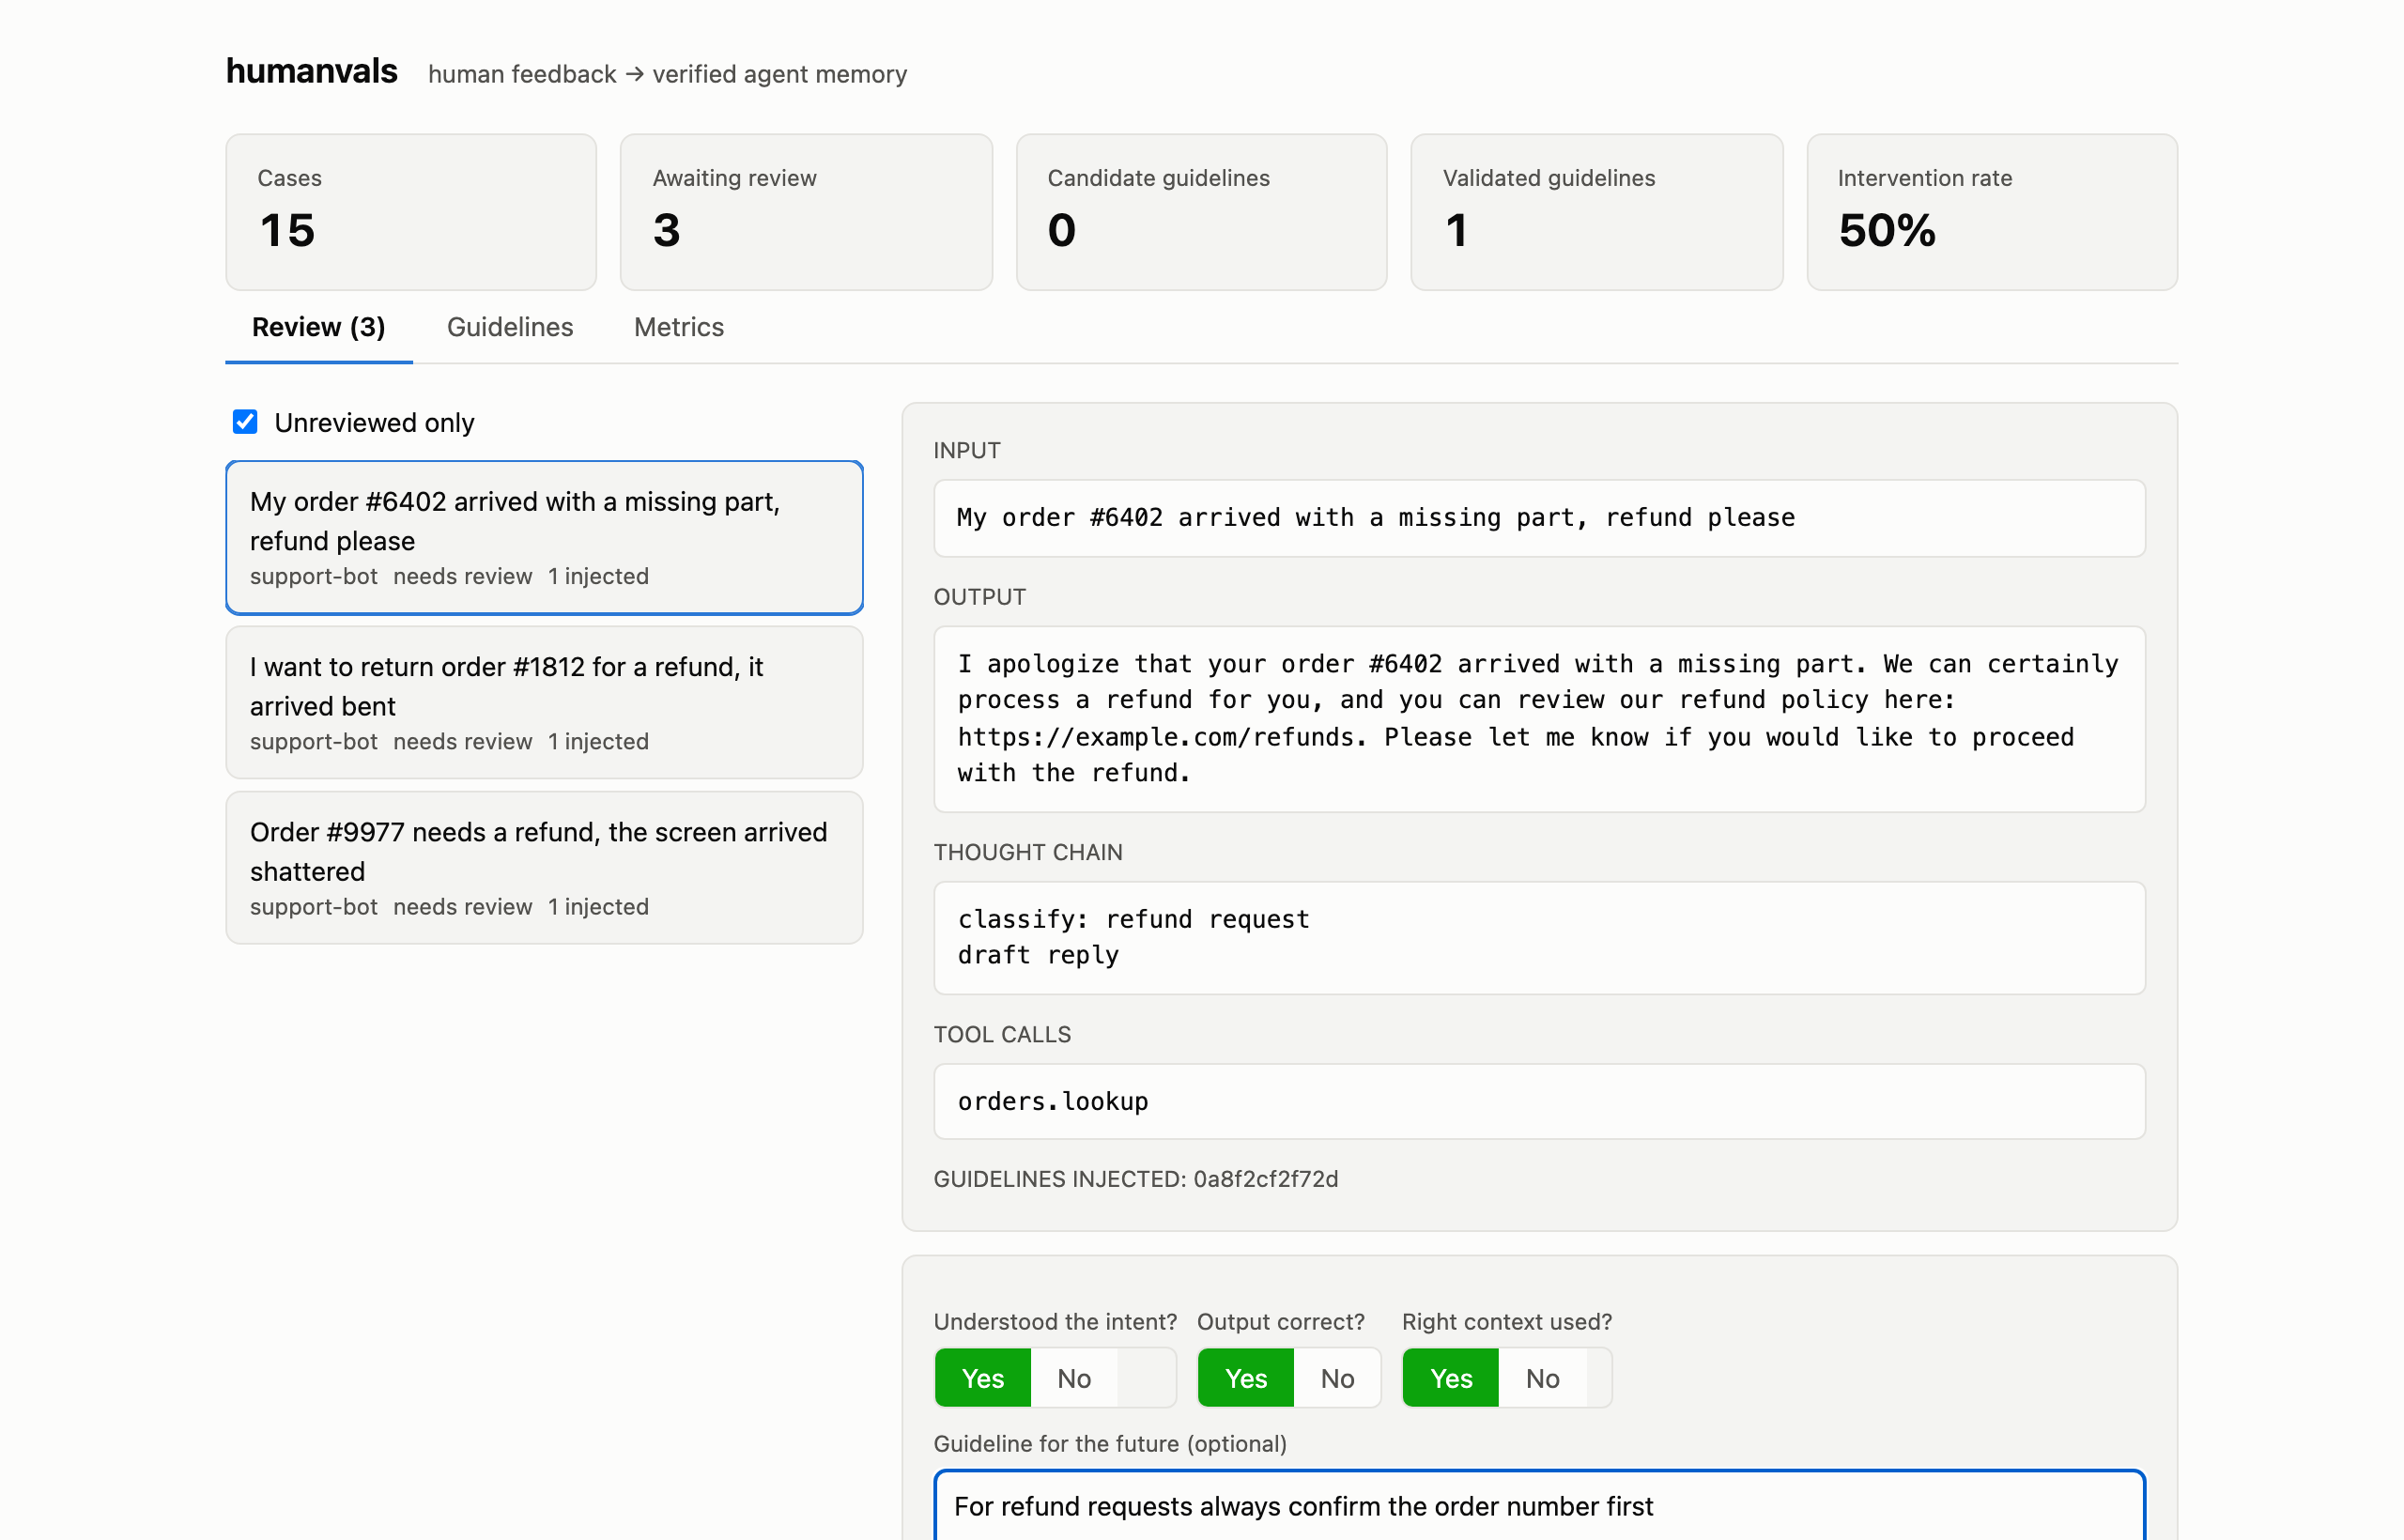
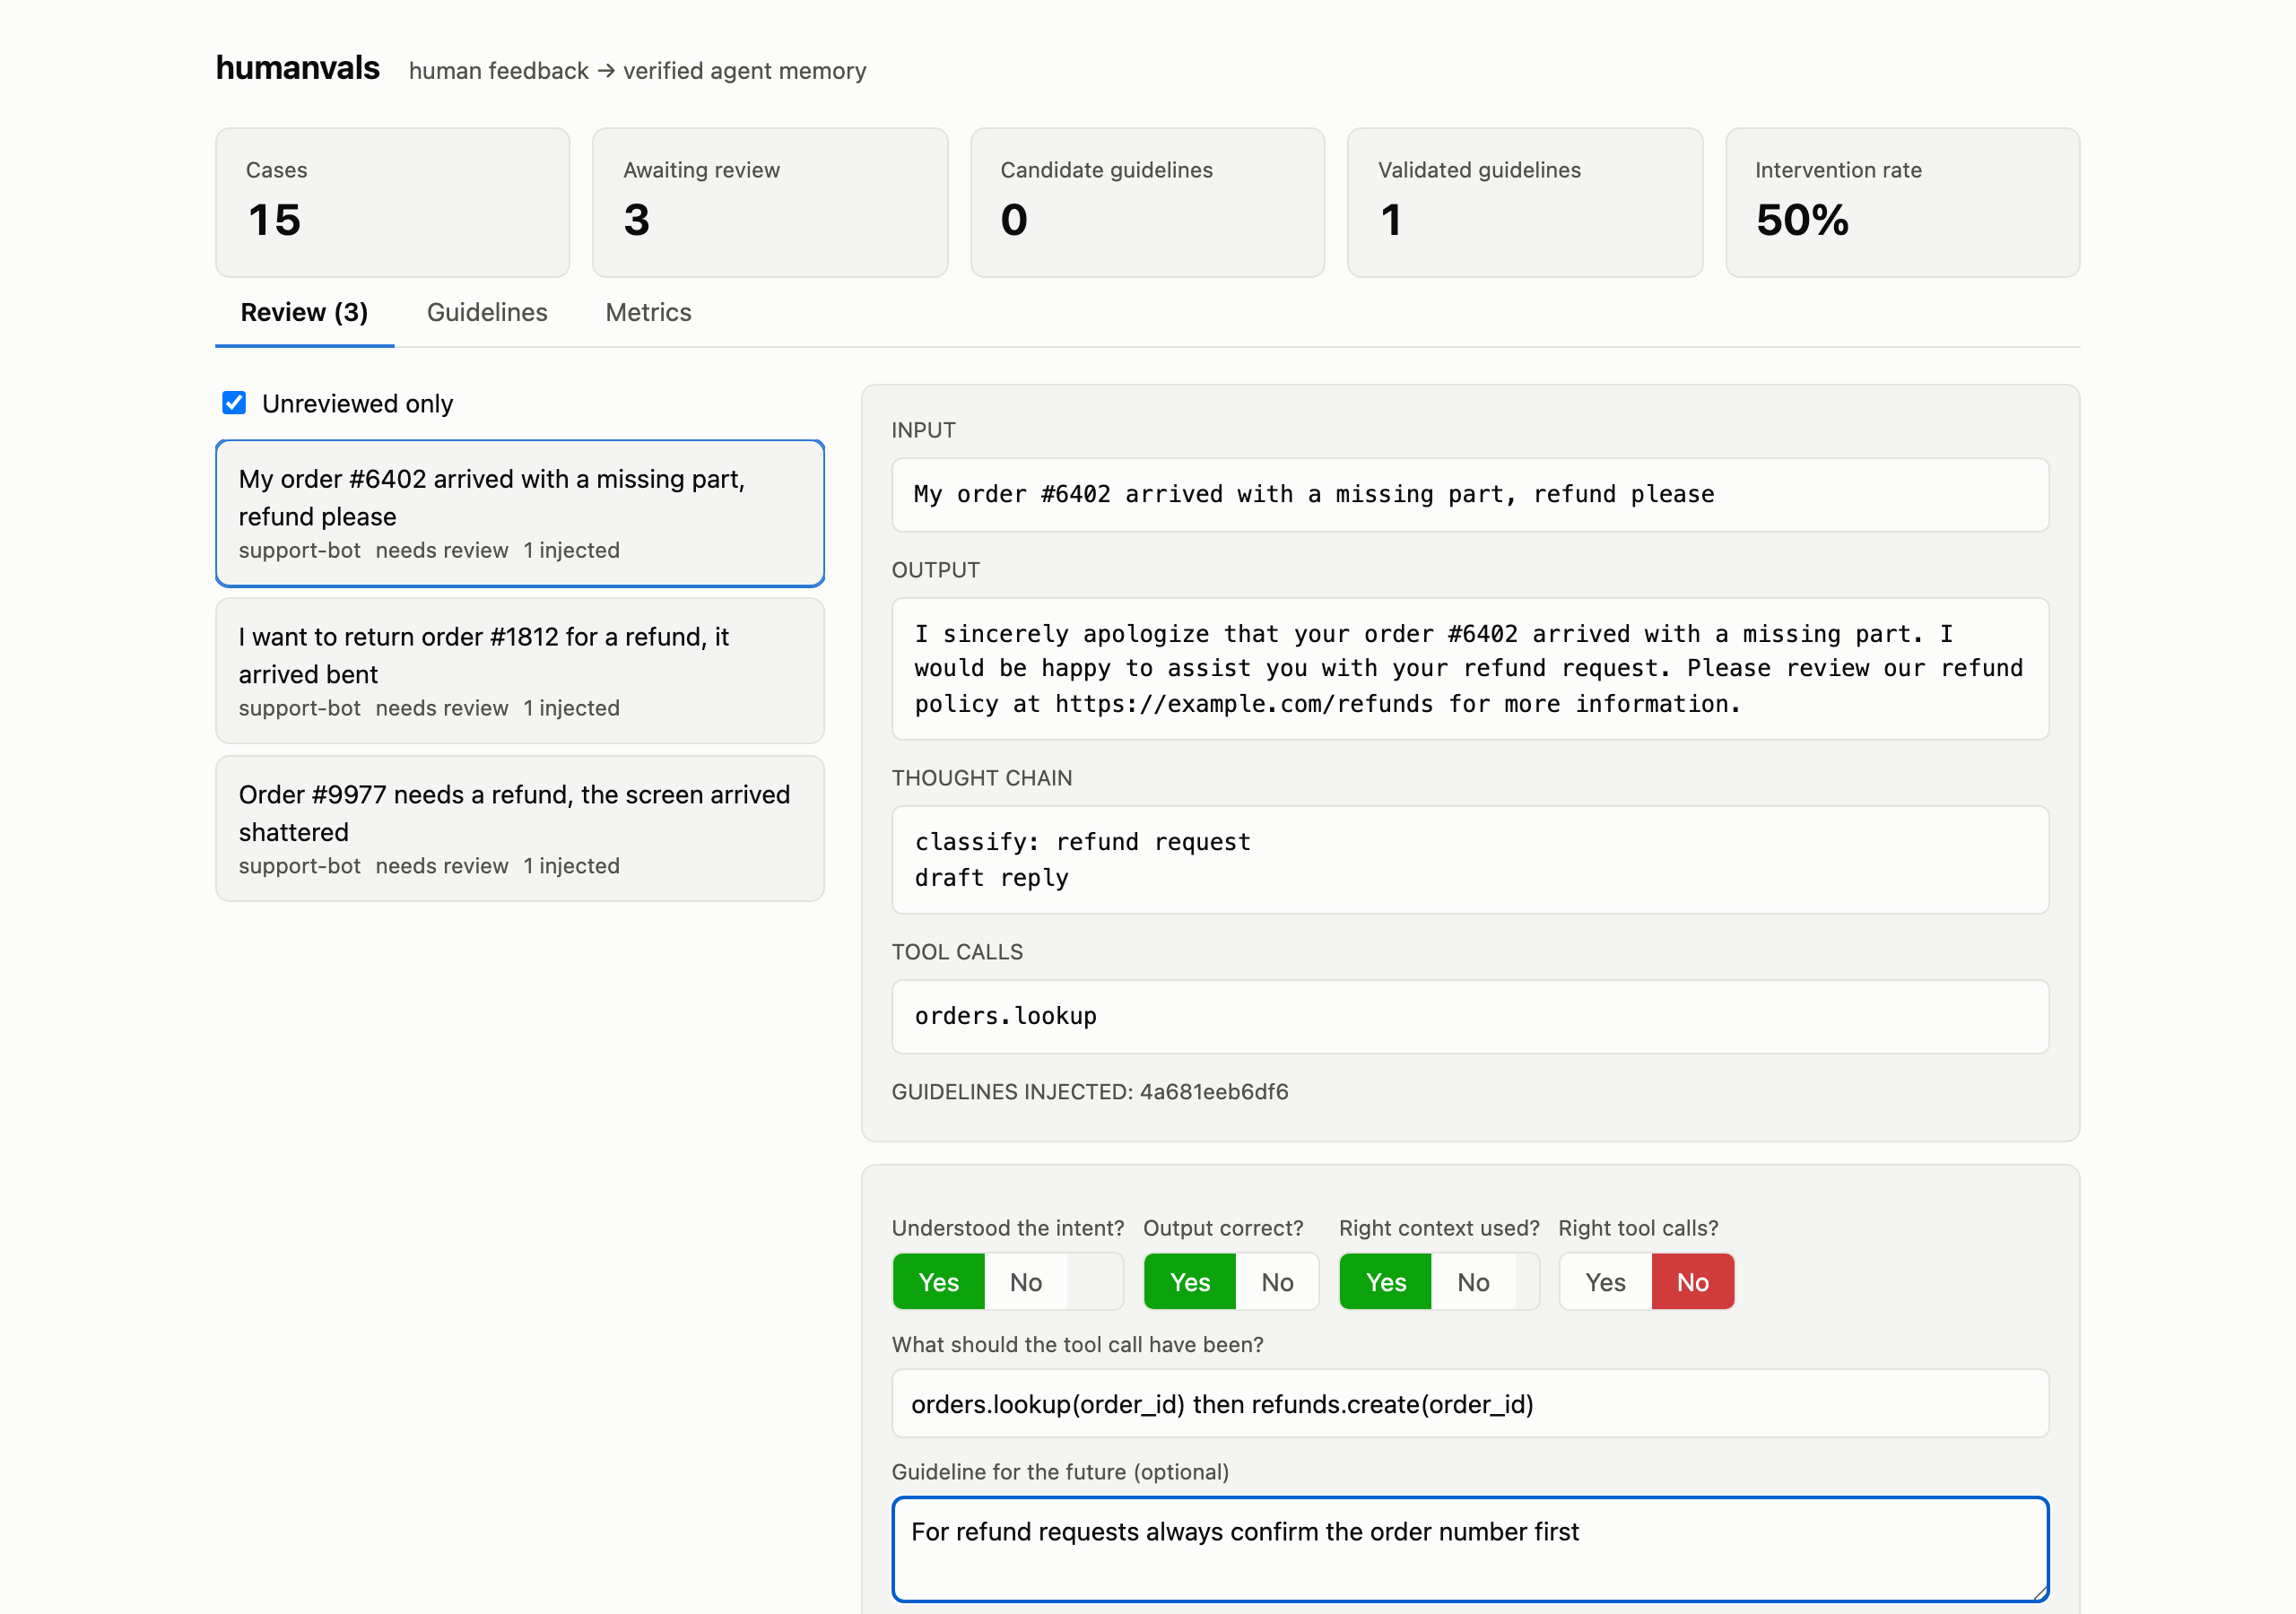
feat: tool-use evaluation dimension with operator correction
Reviewers now answer 'Right tool calls?' alongside intent/output/context; on
No they record expected_tool_call — the concrete call the agent should have
made, judged against the case's tool_calls metadata. Schema v2 with the first
user_version migration (legacy rows default tool_ok=1). output_ok stays the
sole win/loss signal (ADR-0002).

Claude-Session: https://claude.ai/code/session_01MnbEekxqzy424QdTCtAhGb

diff --git a/dashboard/src/components/EvalForm.tsx b/dashboard/src/components/EvalForm.tsx
@@ -5,7 +5,8 @@ import type { EvaluationBody, Guideline } from '../types'
 const DIMENSIONS = [
   ['intent_ok', 'Understood the intent?'],
   ['output_ok', 'Output correct?'],
-  ['context_ok', 'Right context used?']
+  ['context_ok', 'Right context used?'],
+  ['tool_ok', 'Right tool calls?']
 ] as const
 
 type DimKey = (typeof DIMENSIONS)[number][0]
@@ -13,7 +14,8 @@ type Resolution = EvaluationBody['resolution']
 
 export function EvalForm(props: { caseId: string; agent: string; onSubmitted: () => void }) {
   const [dims, setDims] = useState<Record<DimKey, boolean>>(
-    { intent_ok: true, output_ok: true, context_ok: true })
+    { intent_ok: true, output_ok: true, context_ok: true, tool_ok: true })
+  const [expectedTool, setExpectedTool] = useState('')
   const [guideline, setGuideline] = useState('')
   const [appliesWhen, setAppliesWhen] = useState('')
   const [reviewer, setReviewer] = useState('operator')
@@ -36,10 +38,11 @@ export function EvalForm(props: { caseId: string; agent: string; onSubmitted: ()
     setBusy(true); setError('')
     try {
       await api.evaluate(props.caseId, {
-        ...dims, reviewer, notes: '', guideline_text: guideline.trim(),
+        ...dims, expected_tool_call: dims.tool_ok ? '' : expectedTool.trim(),
+        reviewer, notes: '', guideline_text: guideline.trim(),
         applies_when: appliesWhen.trim(), resolution, target_guideline_id: target
       })
-      setGuideline(''); setAppliesWhen('')
+      setGuideline(''); setAppliesWhen(''); setExpectedTool('')
       props.onSubmitted()
     } catch (e) {
       setError(e instanceof Error ? e.message : String(e))
@@ -63,6 +66,14 @@ export function EvalForm(props: { caseId: string; agent: string; onSubmitted: ()
           </div>
         ))}
       </div>
+      {!dims.tool_ok && (
+        <>
+          <label className="field">What should the tool call have been?</label>
+          <input type="text" value={expectedTool}
+            placeholder="e.g. orders.lookup(order_id) before replying"
+            onChange={e => setExpectedTool(e.target.value)} />
+        </>
+      )}
       <label className="field">Guideline for the future (optional)</label>
       <textarea value={guideline} placeholder="How should the agent handle this next time?"
         onChange={e => setGuideline(e.target.value)} />

diff --git a/dashboard/src/components/__tests__/components.test.tsx b/dashboard/src/components/__tests__/components.test.tsx
@@ -21,13 +21,23 @@ describe('SummaryTiles', () => {
 })
 
 describe('EvalForm', () => {
-  it('renders the four evaluation dimensions', () => {
+  it('renders the evaluation dimensions and guideline field', () => {
     render(<EvalForm caseId="c1" agent="bot" onSubmitted={() => {}} />)
     expect(screen.getByText('Understood the intent?')).toBeInTheDocument()
     expect(screen.getByText('Output correct?')).toBeInTheDocument()
     expect(screen.getByText('Right context used?')).toBeInTheDocument()
+    expect(screen.getByText('Right tool calls?')).toBeInTheDocument()
     expect(screen.getByText('Guideline for the future (optional)')).toBeInTheDocument()
     expect(screen.getByText('Submit evaluation')).toBeInTheDocument()
+  })
+
+  it('asks for the correct tool call only when tool dimension is No', async () => {
+    const { fireEvent } = await import('@testing-library/react')
+    render(<EvalForm caseId="c1" agent="bot" onSubmitted={() => {}} />)
+    expect(screen.queryByText('What should the tool call have been?')).toBeNull()
+    const toolSeg = screen.getByText('Right tool calls?').parentElement!
+    fireEvent.click(toolSeg.querySelectorAll('button')[1])
+    expect(screen.getByText('What should the tool call have been?')).toBeInTheDocument()
   })
 })
 

diff --git a/dashboard/src/types.ts b/dashboard/src/types.ts
@@ -45,6 +45,8 @@ export interface EvaluationBody {
   intent_ok: boolean
   output_ok: boolean
   context_ok: boolean
+  tool_ok: boolean
+  expected_tool_call: string
   reviewer: string
   notes: string
   guideline_text: string

diff --git a/tests/test_store.py b/tests/test_store.py
@@ -28,3 +28,37 @@ def test_memory_db_isolated_instances() -> None:
     hv2 = HumanVals(':memory:')
     add_guideline(hv1, 'refund my order', 'rule')
     assert hv2.list_guidelines() == []
+
+
+def test_migration_from_v1_schema(tmp_path: Path) -> None:
+    """A v1 database (no tool dimension) opens cleanly and gains the columns."""
+    import sqlite3
+
+    db = str(tmp_path / 'old.db')
+    conn = sqlite3.connect(db)
+    conn.executescript(
+        'CREATE TABLE cases (id TEXT PRIMARY KEY, agent TEXT, namespace TEXT,'
+        ' input TEXT, output TEXT, metadata TEXT, guidelines_injected TEXT,'
+        ' created_at REAL, reviewed INTEGER DEFAULT 0);'
+        'CREATE TABLE evaluations (id TEXT PRIMARY KEY, case_id TEXT,'
+        ' intent_ok INTEGER, output_ok INTEGER, context_ok INTEGER, notes TEXT,'
+        ' guideline_text TEXT, applies_when TEXT, reviewer TEXT, created_at REAL);'
+        'CREATE TABLE guidelines (id TEXT PRIMARY KEY, agent TEXT, namespace TEXT,'
+        ' intent_text TEXT, intent_vec TEXT, text TEXT, applies_when TEXT,'
+        ' origin TEXT, status TEXT, exposures INTEGER DEFAULT 0,'
+        ' wins INTEGER DEFAULT 0, validation_count INTEGER DEFAULT 0,'
+        ' superseded_by TEXT, source_case_id TEXT, created_at REAL, promoted_at REAL);'
+        'CREATE TABLE exposure_credits (case_id TEXT, guideline_id TEXT,'
+        ' PRIMARY KEY (case_id, guideline_id));'
+        "INSERT INTO cases VALUES ('c1','bot','default','in','out','{}','[]',0.0,1);"
+        "INSERT INTO evaluations VALUES ('e1','c1',1,0,1,'','','','ali',0.0);"
+    )
+    conn.execute('PRAGMA user_version=1')
+    conn.commit()
+    conn.close()
+
+    hv = HumanVals(db)  # must migrate, not crash
+    row = hv.store.list_evaluations()[0]
+    assert row['tool_ok'] == 1  # legacy rows default to 'no tool problem'
+    assert row['expected_tool_call'] == ''
+    assert hv.store.conn.execute('PRAGMA user_version').fetchone()[0] >= 2

diff --git a/src/humanvals/store.py b/src/humanvals/store.py
@@ -16,7 +16,8 @@ CREATE TABLE IF NOT EXISTS cases (
   metadata TEXT, guidelines_injected TEXT, created_at REAL, reviewed INTEGER DEFAULT 0);
 CREATE TABLE IF NOT EXISTS evaluations (
   id TEXT PRIMARY KEY, case_id TEXT, intent_ok INTEGER, output_ok INTEGER,
-  context_ok INTEGER, notes TEXT, guideline_text TEXT, applies_when TEXT,
+  context_ok INTEGER, tool_ok INTEGER DEFAULT 1, expected_tool_call TEXT DEFAULT '',
+  notes TEXT, guideline_text TEXT, applies_when TEXT,
   reviewer TEXT, created_at REAL);
 CREATE TABLE IF NOT EXISTS guidelines (
   id TEXT PRIMARY KEY, agent TEXT, namespace TEXT, intent_text TEXT, intent_vec TEXT,
@@ -28,7 +29,13 @@ CREATE TABLE IF NOT EXISTS exposure_credits (
 """
 
 
-SCHEMA_VERSION = 1
+SCHEMA_VERSION = 2
+
+# version-gated ALTERs applied to databases created by older releases
+_MIGRATIONS: dict[int, list[str]] = {
+    2: ["ALTER TABLE evaluations ADD COLUMN tool_ok INTEGER DEFAULT 1",
+        "ALTER TABLE evaluations ADD COLUMN expected_tool_call TEXT DEFAULT ''"],
+}
 
 
 class SQLiteStore:
@@ -37,8 +44,21 @@ class SQLiteStore:
         self.conn.row_factory = sqlite3.Row
         self.conn.execute('PRAGMA journal_mode=WAL')
         self.conn.execute('PRAGMA busy_timeout=5000')
+        self._migrate()
         self.conn.executescript(_SCHEMA)
         self.conn.execute(f'PRAGMA user_version={SCHEMA_VERSION}')
+
+    def _migrate(self) -> None:
+        version: int = self.conn.execute('PRAGMA user_version').fetchone()[0]
+        has_tables = self.conn.execute(
+            "SELECT 1 FROM sqlite_master WHERE name='evaluations'").fetchone()
+        if version == 0 or not has_tables:
+            return  # fresh database: _SCHEMA creates everything current
+        for target in sorted(_MIGRATIONS):
+            if version < target:
+                for stmt in _MIGRATIONS[target]:
+                    self.conn.execute(stmt)
+        self.conn.commit()
 
     # -- cases ---------------------------------------------------------------
 
@@ -78,11 +98,18 @@ class SQLiteStore:
     def add_evaluation(self, ev: Evaluation) -> str:
         eid = new_id()
         self.conn.execute(
-            'INSERT INTO evaluations VALUES (?,?,?,?,?,?,?,?,?,?)',
+            'INSERT INTO evaluations (id, case_id, intent_ok, output_ok, context_ok,'
+            ' tool_ok, expected_tool_call, notes, guideline_text, applies_when,'
+            ' reviewer, created_at) VALUES (?,?,?,?,?,?,?,?,?,?,?,?)',
             (eid, ev.case_id, int(ev.intent_ok), int(ev.output_ok), int(ev.context_ok),
+             int(ev.tool_ok), ev.expected_tool_call,
              ev.notes, ev.guideline_text, ev.applies_when, ev.reviewer, time.time()))
         self.conn.commit()
         return eid
+
+    def list_case_evaluations(self, case_id: str) -> list[sqlite3.Row]:
+        return list(self.conn.execute(
+            'SELECT * FROM evaluations WHERE case_id=? ORDER BY rowid', (case_id,)))
 
     def list_evaluations(self, agent: str | None = None) -> list[sqlite3.Row]:
         sql = ('SELECT e.* FROM evaluations e JOIN cases c ON c.id = e.case_id')

diff --git a/tests/test_client.py b/tests/test_client.py
@@ -57,6 +57,29 @@ def test_evaluate_without_guideline_creates_none(hv: HumanVals) -> None:
     assert hv.list_guidelines() == []
 
 
+def test_evaluate_tool_dimension_roundtrip(hv: HumanVals) -> None:
+    case_id = hv.record_case(agent='bot', input='refund order 5', output='done',
+                             metadata={'tool_calls': [{'name': 'orders.delete'}]})
+    hv.evaluate(
+        Evaluation(case_id=case_id, intent_ok=True, output_ok=False, context_ok=True,
+                   tool_ok=False,
+                   expected_tool_call='orders.lookup(order_id) then refunds.create',
+                   reviewer='ali')
+    )
+    row = hv.store.list_evaluations()[0]
+    assert row['tool_ok'] == 0
+    assert row['expected_tool_call'] == 'orders.lookup(order_id) then refunds.create'
+
+
+def test_tool_ok_defaults_true(hv: HumanVals) -> None:
+    case_id = hv.record_case(agent='bot', input='x', output='y')
+    hv.evaluate(Evaluation(case_id=case_id, intent_ok=True, output_ok=True,
+                           context_ok=True, reviewer='ali'))
+    row = hv.store.list_evaluations()[0]
+    assert row['tool_ok'] == 1
+    assert row['expected_tool_call'] == ''
+
+
 def test_list_cases_unreviewed_only(hv: HumanVals) -> None:
     a = hv.record_case(agent='bot', input='a', output='1')
     hv.record_case(agent='bot', input='b', output='2')

diff --git a/tests/test_server.py b/tests/test_server.py
@@ -21,6 +21,7 @@ def seed_case(client: TestClient, text: str = 'refund my order please') -> str:
 
 def evaluate(client: TestClient, case_id: str, **overrides: object) -> dict:  # type: ignore[type-arg]
     body: dict = {'intent_ok': True, 'output_ok': False, 'context_ok': True,  # type: ignore[type-arg]
+                  'tool_ok': True, 'expected_tool_call': '',
                   'reviewer': 'ali', 'guideline_text': 'Link the refund policy',
                   'applies_when': '', 'resolution': 'add'}
     body.update(overrides)
@@ -87,6 +88,16 @@ def test_guideline_retrieval_endpoint(client: TestClient) -> None:
     assert r.status_code == 200
     assert len(r.json()['guidelines']) == 1
     assert 'prompt' in r.json()
+
+
+def test_evaluate_with_tool_correction(client: TestClient) -> None:
+    case_id = seed_case(client)
+    evaluate(client, case_id, tool_ok=False,
+             expected_tool_call='orders.lookup(order_id) first')
+    r = client.get(f'/api/cases/{case_id}/evaluations')
+    assert r.status_code == 200
+    assert r.json()[0]['tool_ok'] is False
+    assert r.json()[0]['expected_tool_call'] == 'orders.lookup(order_id) first'
 
 
 def test_promotions_endpoint(client: TestClient) -> None:

diff --git a/src/humanvals/server/app.py b/src/humanvals/server/app.py
@@ -54,6 +54,8 @@ def _register_routes(app: FastAPI, hv: HumanVals) -> None:  # noqa: C901
     def evaluate(case_id: str, body: EvaluationIn) -> dict[str, Any]:
         ev = Evaluation(case_id=case_id, intent_ok=body.intent_ok,
                         output_ok=body.output_ok, context_ok=body.context_ok,
+                        tool_ok=body.tool_ok,
+                        expected_tool_call=body.expected_tool_call,
                         reviewer=body.reviewer, notes=body.notes,
                         guideline_text=body.guideline_text,
                         applies_when=body.applies_when)
@@ -65,6 +67,14 @@ def _register_routes(app: FastAPI, hv: HumanVals) -> None:  # noqa: C901
         except ValueError as exc:
             raise HTTPException(400, str(exc)) from exc
         return dataclasses.asdict(result)
+
+    @app.get('/api/cases/{case_id}/evaluations')
+    def case_evaluations(case_id: str) -> list[dict[str, Any]]:
+        rows = hv.store.list_case_evaluations(case_id)
+        return [{**dict(r),
+                 'intent_ok': bool(r['intent_ok']), 'output_ok': bool(r['output_ok']),
+                 'context_ok': bool(r['context_ok']), 'tool_ok': bool(r['tool_ok'])}
+                for r in rows]
 
     @app.post('/api/conflicts')
     def conflicts(body: ConflictQuery) -> list[dict[str, Any]]:

diff --git a/src/humanvals/models.py b/src/humanvals/models.py
@@ -28,13 +28,19 @@ class Case:
 
 @dataclass
 class Evaluation:
-    """Operator review of one case — the 4 dimensions (RFC §3.2)."""
+    """Operator review of one case — the evaluation dimensions (RFC §3.2).
+
+    tool_ok defaults True ("no tool problem"); when the reviewer answers No,
+    expected_tool_call captures what should have been called instead.
+    """
 
     case_id: str
     intent_ok: bool
     output_ok: bool
     context_ok: bool
     reviewer: str
+    tool_ok: bool = True
+    expected_tool_call: str = ''
     notes: str = ''
     guideline_text: str = ''
     applies_when: str = ''

diff --git a/scripts/seed_demo.py b/scripts/seed_demo.py
@@ -96,7 +96,11 @@ def main() -> None:
     # operator leaves the guideline on the LAST bad case (so no earlier case
     # has it injected — exposures must reflect what was actually in prompts).
     early_ids = [generate(hv, request, live=False)[0] for request in EARLY]
-    for case_id in early_ids[:-1]:
+    hv.evaluate(Evaluation(  # first case: also a concrete tool correction
+        case_id=early_ids[0], intent_ok=True, output_ok=False, context_ok=False,
+        tool_ok=False, expected_tool_call='orders.lookup(order_id) before replying',
+        reviewer='ali'))
+    for case_id in early_ids[1:-1]:
         review(hv, case_id, ok=False)
     review(hv, early_ids[-1], ok=False, guideline=GUIDELINE,
            applies_when='refund requests')

diff --git a/src/humanvals/server/schemas.py b/src/humanvals/server/schemas.py
@@ -21,6 +21,8 @@ class EvaluationIn(BaseModel):
     output_ok: bool
     context_ok: bool
     reviewer: str
+    tool_ok: bool = True
+    expected_tool_call: str = ''
     notes: str = ''
     guideline_text: str = ''
     applies_when: str = ''

diff --git a/docs/HumanVals_RFC.md b/docs/HumanVals_RFC.md
@@ -37,7 +37,7 @@ Engram specifies applied end to end:
 | Namespace isolation (interference) | Guidelines scoped per agent + namespace |
 | Context-binding prevention | Explicit `applies_when` captured at review time |
 | Retrieve-time synthesis | Guidelines injected as prompt instructions; no background reflection |
-| Amnesia measurement protocol (§6.2) | 4-dimension case evaluation doubles as labeled probes |
+| Amnesia measurement protocol (§6.2) | multi-dimension case evaluation doubles as labeled probes |
 | Confabulation prevention | Candidate vs. validated tiers rendered distinctly in the prompt |
 
 Where Engram diagnoses *whether* an agent forgets, HumanVals closes the loop on
@@ -52,9 +52,10 @@ Where Engram diagnoses *whether* an agent forgets, HumanVals closes the loop on
         ▲        context, guidelines_injected)                   │
         │                     │                                  │
         │                     ▼                                  │
-        │           human review (4 dimensions)                  │
+        │           human review (5 dimensions)                  │
         │        a) intent understood?   b) output correct?      │
-        │        c) right context used?  d) guideline for future │
+        │        c) right context used?  d) right tool calls?    │
+        │           (+ expected call)    e) guideline for future │
         │                     │                                  │
         │                     ▼                                  │
         │        distillation: intent clustering, duplicate      │
@@ -85,21 +86,27 @@ guidelines_injected the exposure log — REQUIRED, the backbone of measurement
 impact measurement, promotion, demotion, intervention-rate metrics — joins
 through it. A case without an exposure log is unusable as evidence.
 
-### 3.2 Four-dimension evaluation
+### 3.2 Multi-dimension evaluation
 
-Operators answer four questions per case. The first three are boolean probes
-(with optional notes); the fourth is generative:
+Operators answer five questions per case. The first four are boolean probes
+(with optional notes); the fifth is generative:
 
 1. **Intent** — did the agent understand what was being asked?
 2. **Output** — is the output designed and factually correct?
 3. **Context** — did the agent use the right context?
-4. **Guideline** — one instruction for handling this in future, plus
+4. **Tool use** — did the agent call the right tools? On *No*, the operator
+   states **what the correct tool call would have been**
+   (`expected_tool_call`) — a concrete correction, not just a label, judged
+   against the tool calls visible in the case metadata.
+5. **Guideline** — one instruction for handling this in future, plus
    **`applies_when`**: the operator states the applicability conditions
    explicitly, so scope is never inferred.
 
-Dimensions 1–3 map onto Engram's amnesia probes (encoding quality,
-confabulation, context-binding/interference), which makes every review a
-labeled measurement, not just feedback.
+Dimensions 1–4 map onto Engram's amnesia probes (encoding quality,
+confabulation, context-binding/interference, action selection), which makes
+every review a labeled measurement, not just feedback. `output_ok` remains the
+single win/loss signal for guideline measurement (ADR-0002); the other booleans
+are diagnostic labels.
 
 ### 3.3 Retrieval ("finetuned-prompt")
 